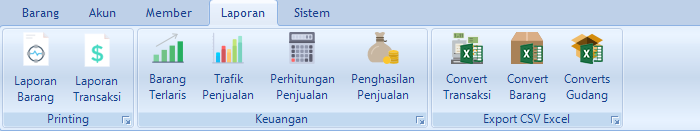
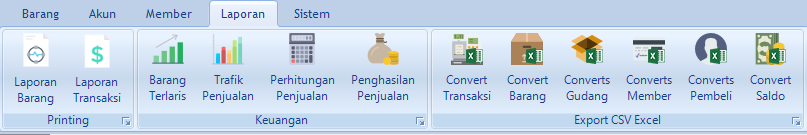
update 1.0.0.3

diff --git a/index.html b/index.html
@@ -441,6 +441,20 @@
 
               <div class="divider-short"></div>
               <section id="content2" class="home-section">
+              <h3><b><center>Mengingat Para Pembeli Dengan Data Pembeli!<center></b></h3>
+              <center><img src="img/Pembeli.png" class="img-responsive" alt="img"></center>
+              <br />
+              <center><img src="img/PembeliInput.png" class="img-responsive" alt="img"></center>
+              <br>
+              <center>
+              <p>Beberapa pembeli ada yang menginginkan untuk menyimpan nama tiap pembeli produknya, tetapi
+              <br />pada versi sebelumnya tidak disediakan. Tetapi sekarang telah tersedia Data Pembeli!
+              <br />Anda dapat melakukan input pembeli dan akan dapat memilih nama pembeli pada saat proses Transaksi.
+              <br />Sehingga nama pembeli akan muncul pada laporan Transaksi.</p>
+              </center>
+
+              <div class="divider-short"></div>
+              <section id="content2" class="home-section">
               <h3><b><center>Update Log<center></b></h3>
               <br>
               <center>
@@ -468,6 +482,19 @@
               <br />- Added Penghasilan Penjualan
               <br />- Added Export Transaksi, Barang, Gudang to CSV Excel
               <br />- Added Harga Jual, Harga Beli, Biaya Produksi Columns to Data Barang
+              </p>
+
+              <b>V1.0.0.3:</b>
+              <br />- Added Data Pembeli
+              <br />- Added Input Pembeli
+              <br />- Hapus Multiple / Hapus Semua Transaksi
+              <br />- Added Convert Member to Excel
+              <br />- Added Convert Data Pembeli to Excel
+              <br />- Added Convert Saldo to Excel
+              <br />- Optimized Transaksi & Barang Data Load
+              <br />- Fixed Bug Member / Cash Input string is not corrent format
+              <br />- Fixed Error Total Pendapatan
+              <br />- Fixed some bugs
               </p>
               </center>
 
